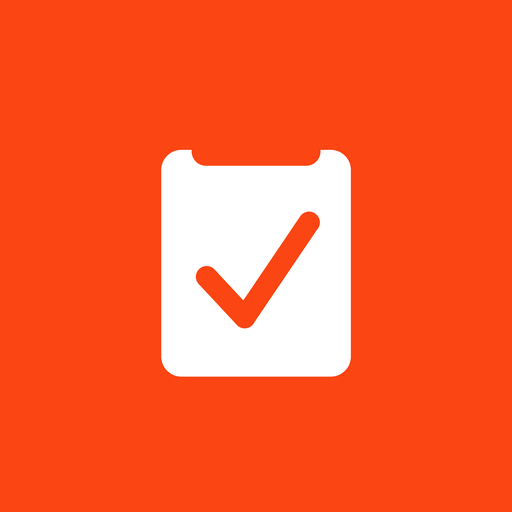
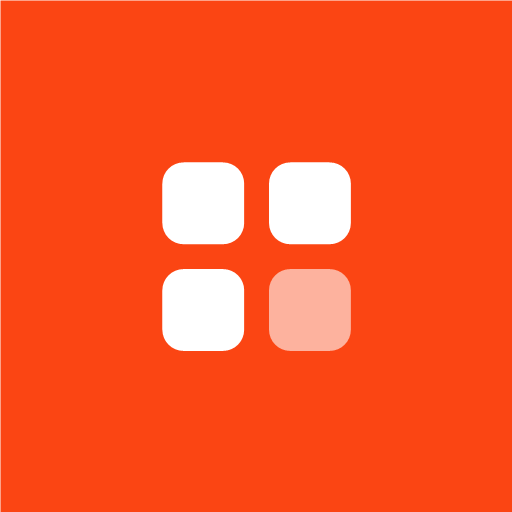
Icone proprio do app, em vez do emprestado do App de Inspecoes
Os dois ficavam identicos na barra de tarefas - mesmo quadrado laranja com
visto - e so dava para distinguir pelo nome. Agora o Atalhos tem uma grade
2x2, que le como "grade de atalhos" em qualquer tamanho. O bloco de baixo
a direita e mais claro: a assimetria e o que o olho usa para distinguir de
longe, quando o icone tem 16px.

A versao do service worker subiu junto. Icone e cache-primeiro, entao sem
nome de cache novo o aparelho ficaria com o icone velho para sempre.

Changed region(s): [[0.3125, 0.2812, 0.6875, 0.75], [0.0, 0.0, 0.0312, 0.0312]]

diff --git a/index.html b/index.html
@@ -211,7 +211,7 @@ footer .espaco{flex:1}
    num arquivo, e a lista de fábrica, que já vem com os sistemas
    da Teccel — quem instala não começa numa tela vazia.
    ============================================================ */
-var VERSAO = "1.8";
+var VERSAO = "1.9";
 var CHAVE  = "atalhos-teccel-v1";
 
 /* Lista de fábrica: os sistemas que já estão no ar. Vale só na primeira

diff --git a/sw.js b/sw.js
@@ -14,7 +14,7 @@
    próprio aparelho (localStorage), gravados pela página. Ver Guardados,
    no index.html. */
 
-var VERSAO = "atalhos-v9";   // v9: icone do Citrix Workspace (02/09/2026)
+var VERSAO = "atalhos-v10";  // v10: icone proprio do app (10/11/2026)
 var ESSENCIAIS = [
   "./",
   "./index.html",
